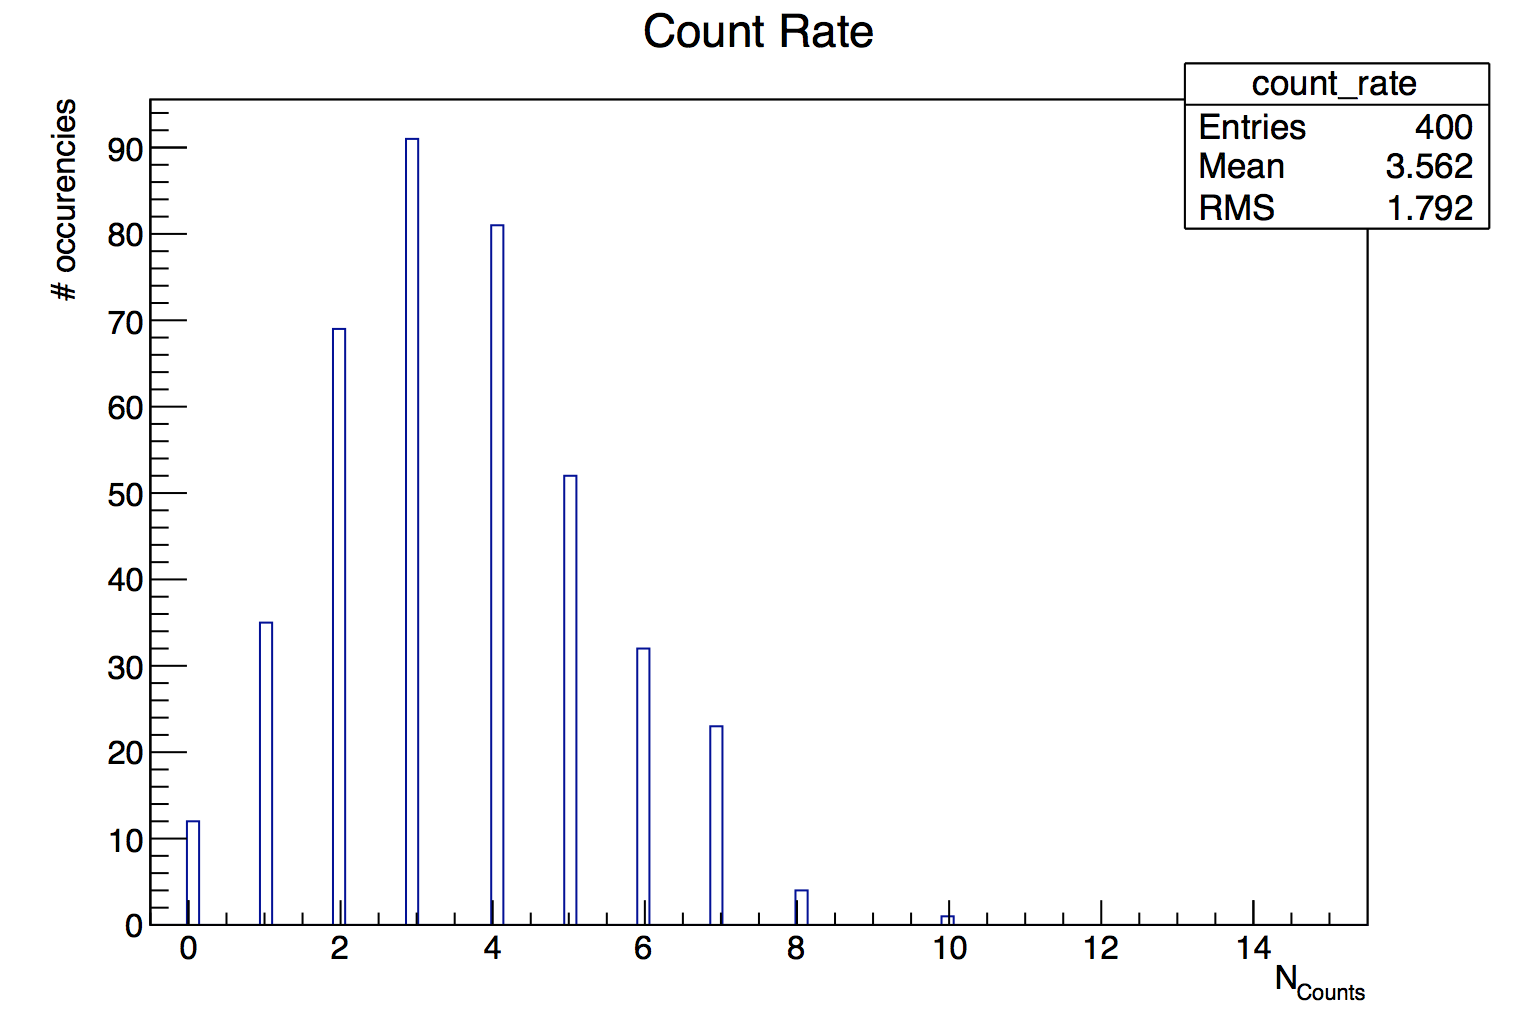
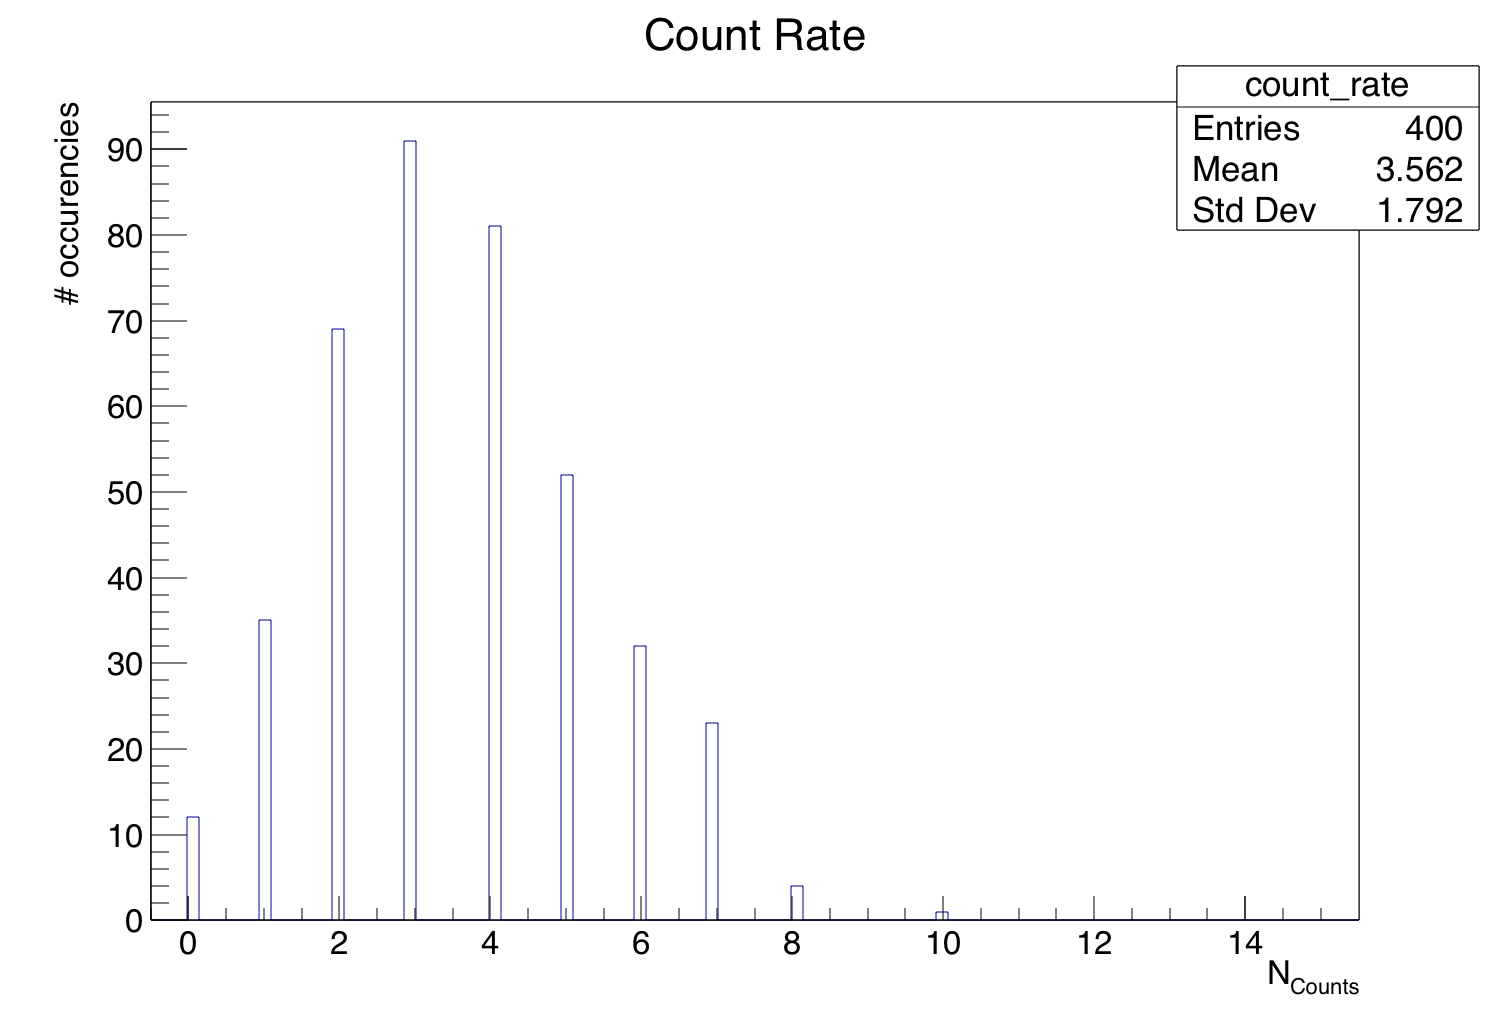
more improvements the primer

Changed region(s): [[0.0311, 0.0606, 0.996, 0.9394], [0.4046, 0.0, 0.5914, 0.0606], [0.8404, 0.9394, 0.9026, 1.0]]

diff --git a/documentation/primer/macros/macro5.C b/documentation/primer/macros/macro5.C
@@ -22,10 +22,10 @@ void macro5(){
 
     // Print summary
     cout << "Moments of Distribution:\n"
-         << " - Mean = " << cnt_r_h->GetMean() << " +- "
-                         << cnt_r_h->GetMeanError() << "\n"
-         << " - RMS = " << cnt_r_h->GetRMS() << " +- "
-                        << cnt_r_h->GetRMSError() << "\n"
+         << " - Mean     = " << cnt_r_h->GetMean() << " +- "
+                             << cnt_r_h->GetMeanError() << "\n"
+         << " - Std Dev  = " << cnt_r_h->GetStdDev() << " +- "
+                             << cnt_r_h->GetStdDevError() << "\n"
          << " - Skewness = " << cnt_r_h->GetSkewness() << "\n"
          << " - Kurtosis = " << cnt_r_h->GetKurtosis() << "\n";
 }

diff --git a/documentation/primer/macros/macro7.C b/documentation/primer/macros/macro7.C
@@ -2,11 +2,11 @@
 // together with its profiles and projections
 
 void macro7(){
-    gStyle->SetPalette(53);
+    gStyle->SetPalette(57);
     gStyle->SetOptStat(0);
     gStyle->SetOptTitle(0);
 
-    TH2F bidi_h("bidi_h","2D Histo;Guassian Vals;Exp. Vals",
+    TH2F bidi_h("bidi_h","2D Histo;Gaussian Vals;Exp. Vals",
                 30,-5,5,  // X axis
                 30,0,10); // Y axis
 

diff --git a/documentation/primer/histograms.md b/documentation/primer/histograms.md
@@ -20,32 +20,32 @@ can fill and draw a histogram with the following example macro.
  // counts of a scaler linked to a Geiger counter.
 
  void macro5(){
-     TH1F* cnt_r_h=new TH1F("count_rate",
-                 "Count Rate;N_{Counts};# occurencies",
-                 100, // Number of Bins
-                 -0.5, // Lower X Boundary
-                 15.5); // Upper X Boundary
+    TH1F* cnt_r_h=new TH1F("count_rate",
+                "Count Rate;N_{Counts};# occurencies",
+                100, // Number of Bins
+                -0.5, // Lower X Boundary
+                15.5); // Upper X Boundary
 
-     const float mean_count=3.6;
-     TRandom3 rndgen;
-     // simulate the measurements
-     for (int imeas=0;imeas<400;imeas++)
-         cnt_r_h->Fill(rndgen.Poisson(mean_count));
+    const float mean_count=3.6;
+    TRandom3 rndgen;
+    // simulate the measurements
+    for (int imeas=0;imeas<400;imeas++)
+        cnt_r_h->Fill(rndgen.Poisson(mean_count));
 
-     TCanvas* c= new TCanvas();
-     cnt_r_h->Draw();
+    TCanvas* c= new TCanvas();
+    cnt_r_h->Draw();
 
-     TCanvas* c_norm= new TCanvas();
-     cnt_r_h->DrawNormalized();
+    TCanvas* c_norm= new TCanvas();
+    cnt_r_h->DrawNormalized();
 
-     // Print summary
-     cout << "Moments of Distribution:\n"
-          << " - Mean = " << cnt_r_h->GetMean() << " +- "
-                          << cnt_r_h->GetMeanError() << "\n"
-          << " - RMS = " << cnt_r_h->GetRMS() << " +- "
-                         << cnt_r_h->GetRMSError() << "\n"
-          << " - Skewness = " << cnt_r_h->GetSkewness() << "\n"
-          << " - Kurtosis = " << cnt_r_h->GetKurtosis() << "\n";
+    // Print summary
+    cout << "Moments of Distribution:\n"
+         << " - Mean     = " << cnt_r_h->GetMean() << " +- "
+                             << cnt_r_h->GetMeanError() << "\n"
+         << " - Std Dev  = " << cnt_r_h->GetStdDev() << " +- "
+                             << cnt_r_h->GetStdDevError() << "\n"
+         << " - Skewness = " << cnt_r_h->GetSkewness() << "\n"
+         << " - Kurtosis = " << cnt_r_h->GetKurtosis() << "\n";
  }
 ```
 
@@ -68,10 +68,10 @@ graphs that emerge from the example are:
 -   line *15*: An entry is stored in the histogram through the
     `TH1F::Fill` method.
 
--   line *19* and *22*: The histogram can be drawn also normalised, ROOT
+-   line *18* and *21*: The histogram can be drawn also normalised, ROOT
     automatically takes cares of the necessary rescaling.
 
--   line *25* to *31*: This small snippet shows how easy it is to access
+-   line *24* to *30*: This small snippet shows how easy it is to access
     the moments and associated errors of a histogram.
 
 ## Add and Divide Histograms ##
@@ -160,15 +160,15 @@ The plots that you will obtain are shown in Figures [5.2](#f52) and [5.3](#f53).
 
 Some lines now need a bit of clarification:
 
--   line *3*: Cint, as we know, is also able to interpret more than one
+-   line *3*: Cling, as we know, is also able to interpret more than one
     function per file. In this case the function simply sets up some
     parameters to conveniently set the line of histograms.
 
--   line *20* to *22*: Some contracted C++ syntax for conditional
+-   line *19* to *21*: Some contracted C++ syntax for conditional
     statements is used to fill the histograms with different numbers of
     entries inside the loop.
 
--   line *27*: This is a crucial step for the sum and ratio of
+-   line *26*: This is a crucial step for the sum and ratio of
     histograms to handle errors properly. The method `TH1::Sumw2` makes
     sure that the squares of weights are stored inside the histogram
     (equivalent to the number of entries per bin if weights of 1 are
@@ -176,13 +176,13 @@ Some lines now need a bit of clarification:
     of each bin entry when the methods `TH1::Add` and `TH1::Divide` are
     invoked.
 
--   line *33*: The sum of two histograms. A weight can be assigned to
+-   line *32*: The sum of two histograms. A weight can be assigned to
     the added histogram, for example to comfortably switch to
     subtraction.
 
--   line *44*: The division of two histograms is rather straightforward.
+-   line *43*: The division of two histograms is rather straightforward.
 
--   line *53* to *63*: When you draw two quantities and their ratios, it
+-   line *52* to *62*: When you draw two quantities and their ratios, it
     is much better if all the information is condensed in one single
     plot. These lines provide a skeleton to perform this operation.
 
@@ -194,36 +194,36 @@ bi-dimensional histogram classes provided by ROOT in a very simple way.
 Let's see how in the following macro:
 
 ``` {.cpp}
-// Draw a Bidimensional Histogram in many ways
-// together with its profiles and projections
+ // Draw a Bidimensional Histogram in many ways
+ // together with its profiles and projections
 
-void macro7(){
-    gStyle->SetPalette(53);
-    gStyle->SetOptStat(0);
-    gStyle->SetOptTitle(0);
+ void macro7(){
+     gStyle->SetPalette(57);
+     gStyle->SetOptStat(0);
+     gStyle->SetOptTitle(0);
 
-    TH2F bidi_h("bidi_h","2D Histo;Guassian Vals;Exp. Vals",
-                30,-5,5,  // X axis
-                30,0,10); // Y axis
+     TH2F bidi_h("bidi_h","2D Histo;Gaussian Vals;Exp. Vals",
+                 30,-5,5,  // X axis
+                 30,0,10); // Y axis
 
-    TRandom3 rgen;
-    for (int i=0;i<500000;i++)
-        bidi_h.Fill(rgen.Gaus(0,2),10-rgen.Exp(4),.1);
+     TRandom3 rgen;
+     for (int i=0;i<500000;i++)
+         bidi_h.Fill(rgen.Gaus(0,2),10-rgen.Exp(4),.1);
 
-    TCanvas* c=new TCanvas("Canvas","Canvas",800,800);
-    c->Divide(2,2);
-    c->cd(1);bidi_h.DrawClone("Cont1");
-    c->cd(2);bidi_h.DrawClone("Colz");
-    c->cd(3);bidi_h.DrawClone("lego2");
-    c->cd(4);bidi_h.DrawClone("surf3");
+     TCanvas* c=new TCanvas("Canvas","Canvas",800,800);
+     c->Divide(2,2);
+     c->cd(1);bidi_h.DrawClone("Cont1");
+     c->cd(2);bidi_h.DrawClone("Colz");
+     c->cd(3);bidi_h.DrawClone("lego2");
+     c->cd(4);bidi_h.DrawClone("surf3");
 
-    // Profiles and Projections
-    TCanvas* c2=new TCanvas("Canvas2","Canvas2",800,800);
-    c2->Divide(2,2);
-    c2->cd(1);bidi_h.ProjectionX()->DrawClone();
-    c2->cd(2);bidi_h.ProjectionY()->DrawClone();
-    c2->cd(3);bidi_h.ProfileX()->DrawClone();
-    c2->cd(4);bidi_h.ProfileY()->DrawClone();
+     // Profiles and Projections
+     TCanvas* c2=new TCanvas("Canvas2","Canvas2",800,800);
+     c2->Divide(2,2);
+     c2->cd(1);bidi_h.ProjectionX()->DrawClone();
+     c2->cd(2);bidi_h.ProjectionY()->DrawClone();
+     c2->cd(3);bidi_h.ProfileX()->DrawClone();
+     c2->cd(4);bidi_h.ProfileY()->DrawClone();
 }
 ```
 
